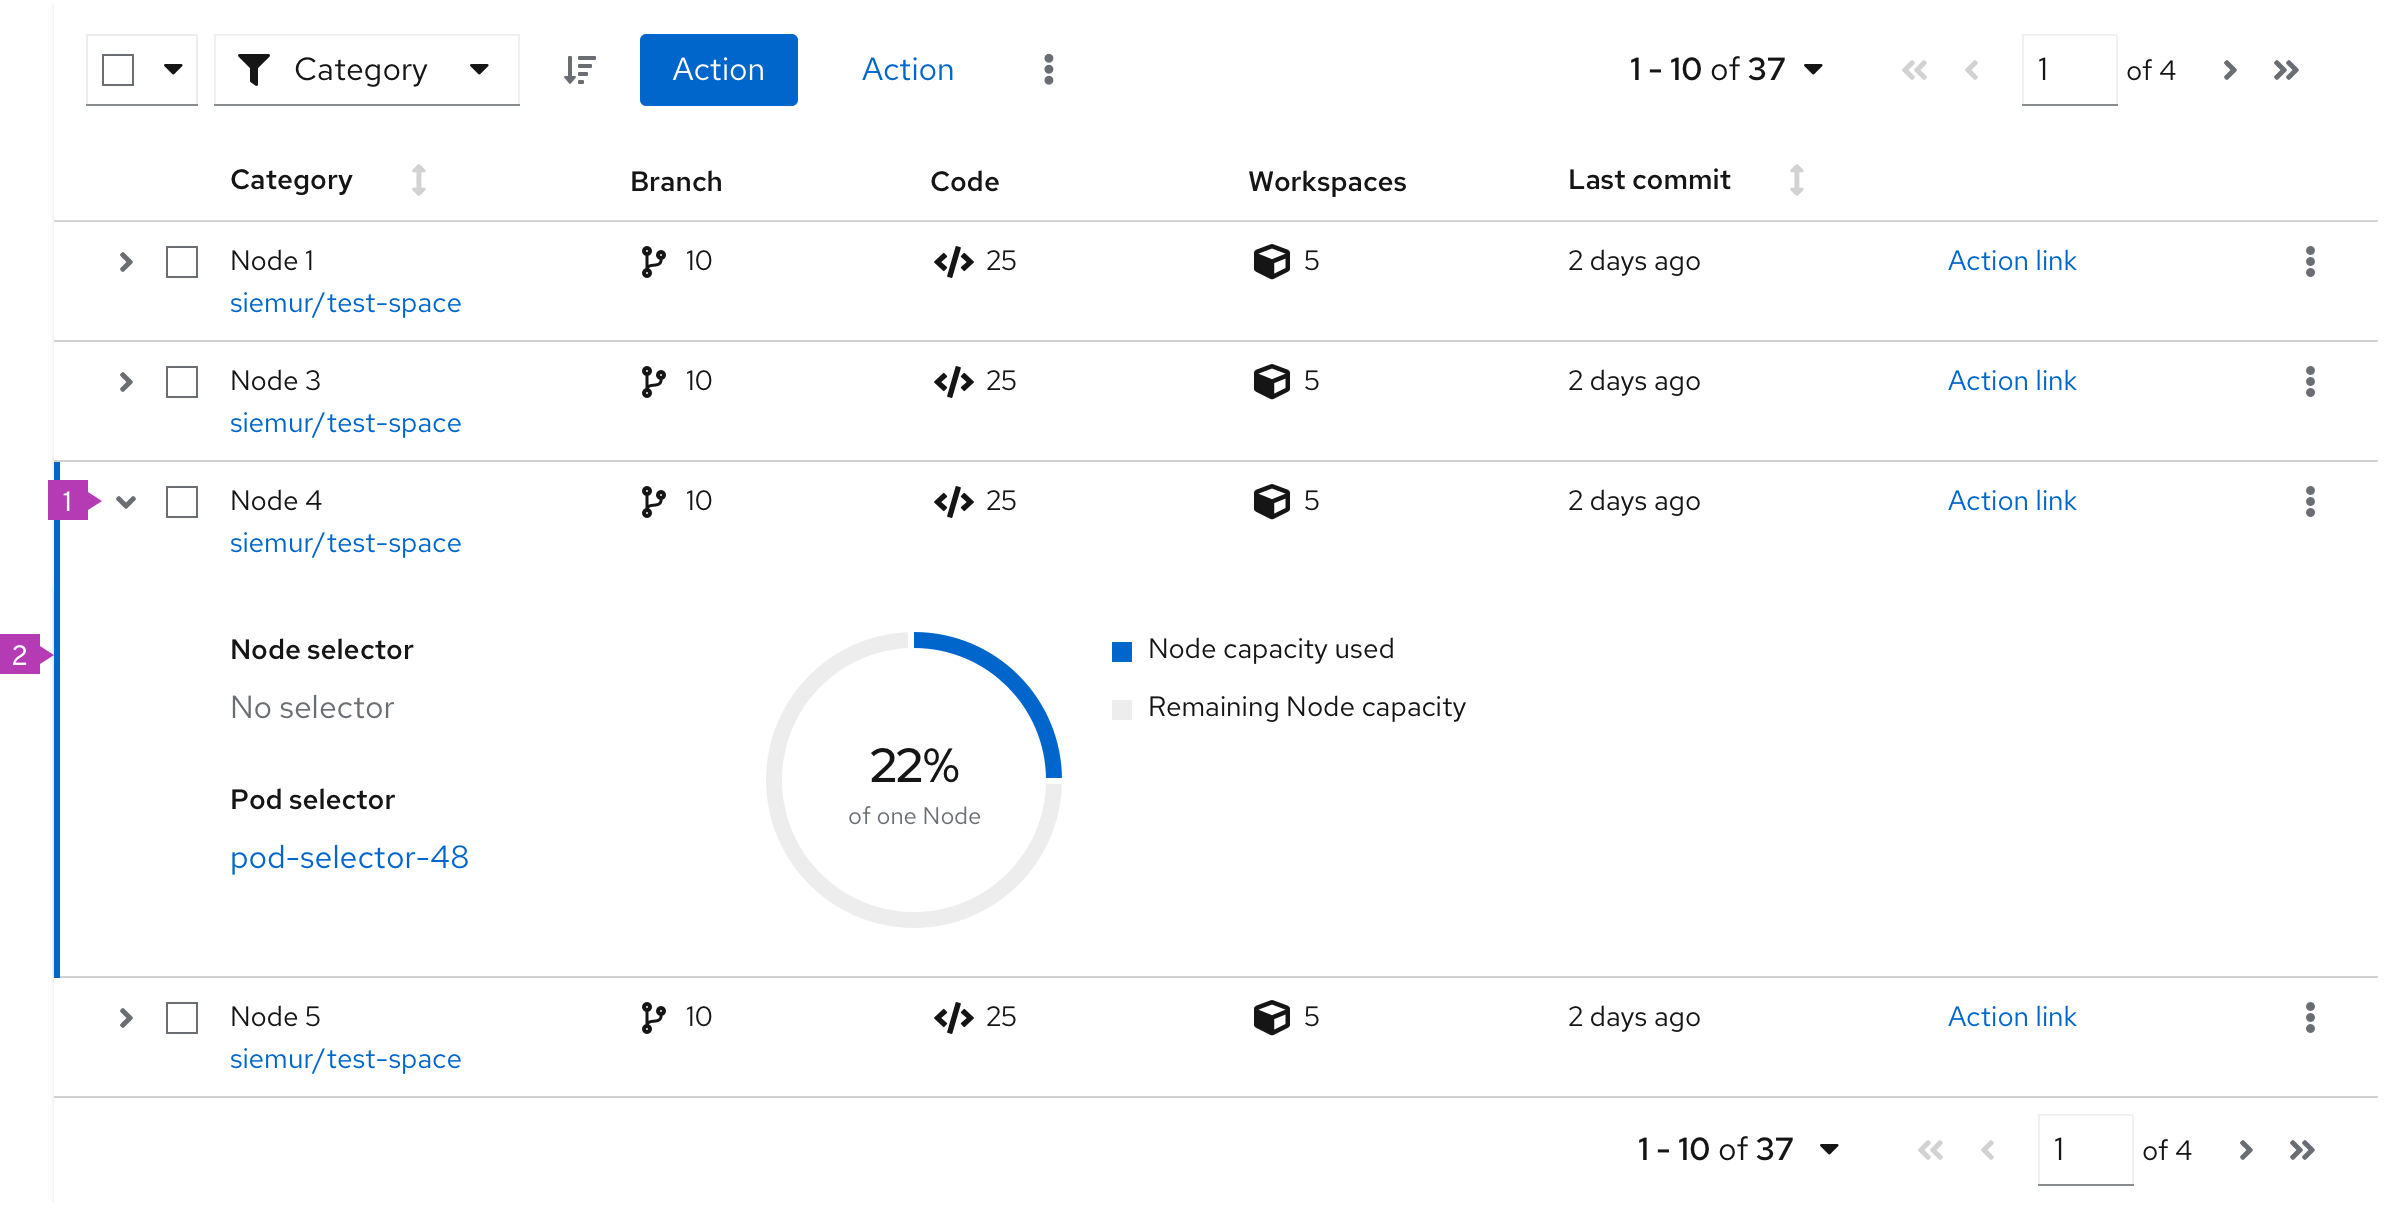
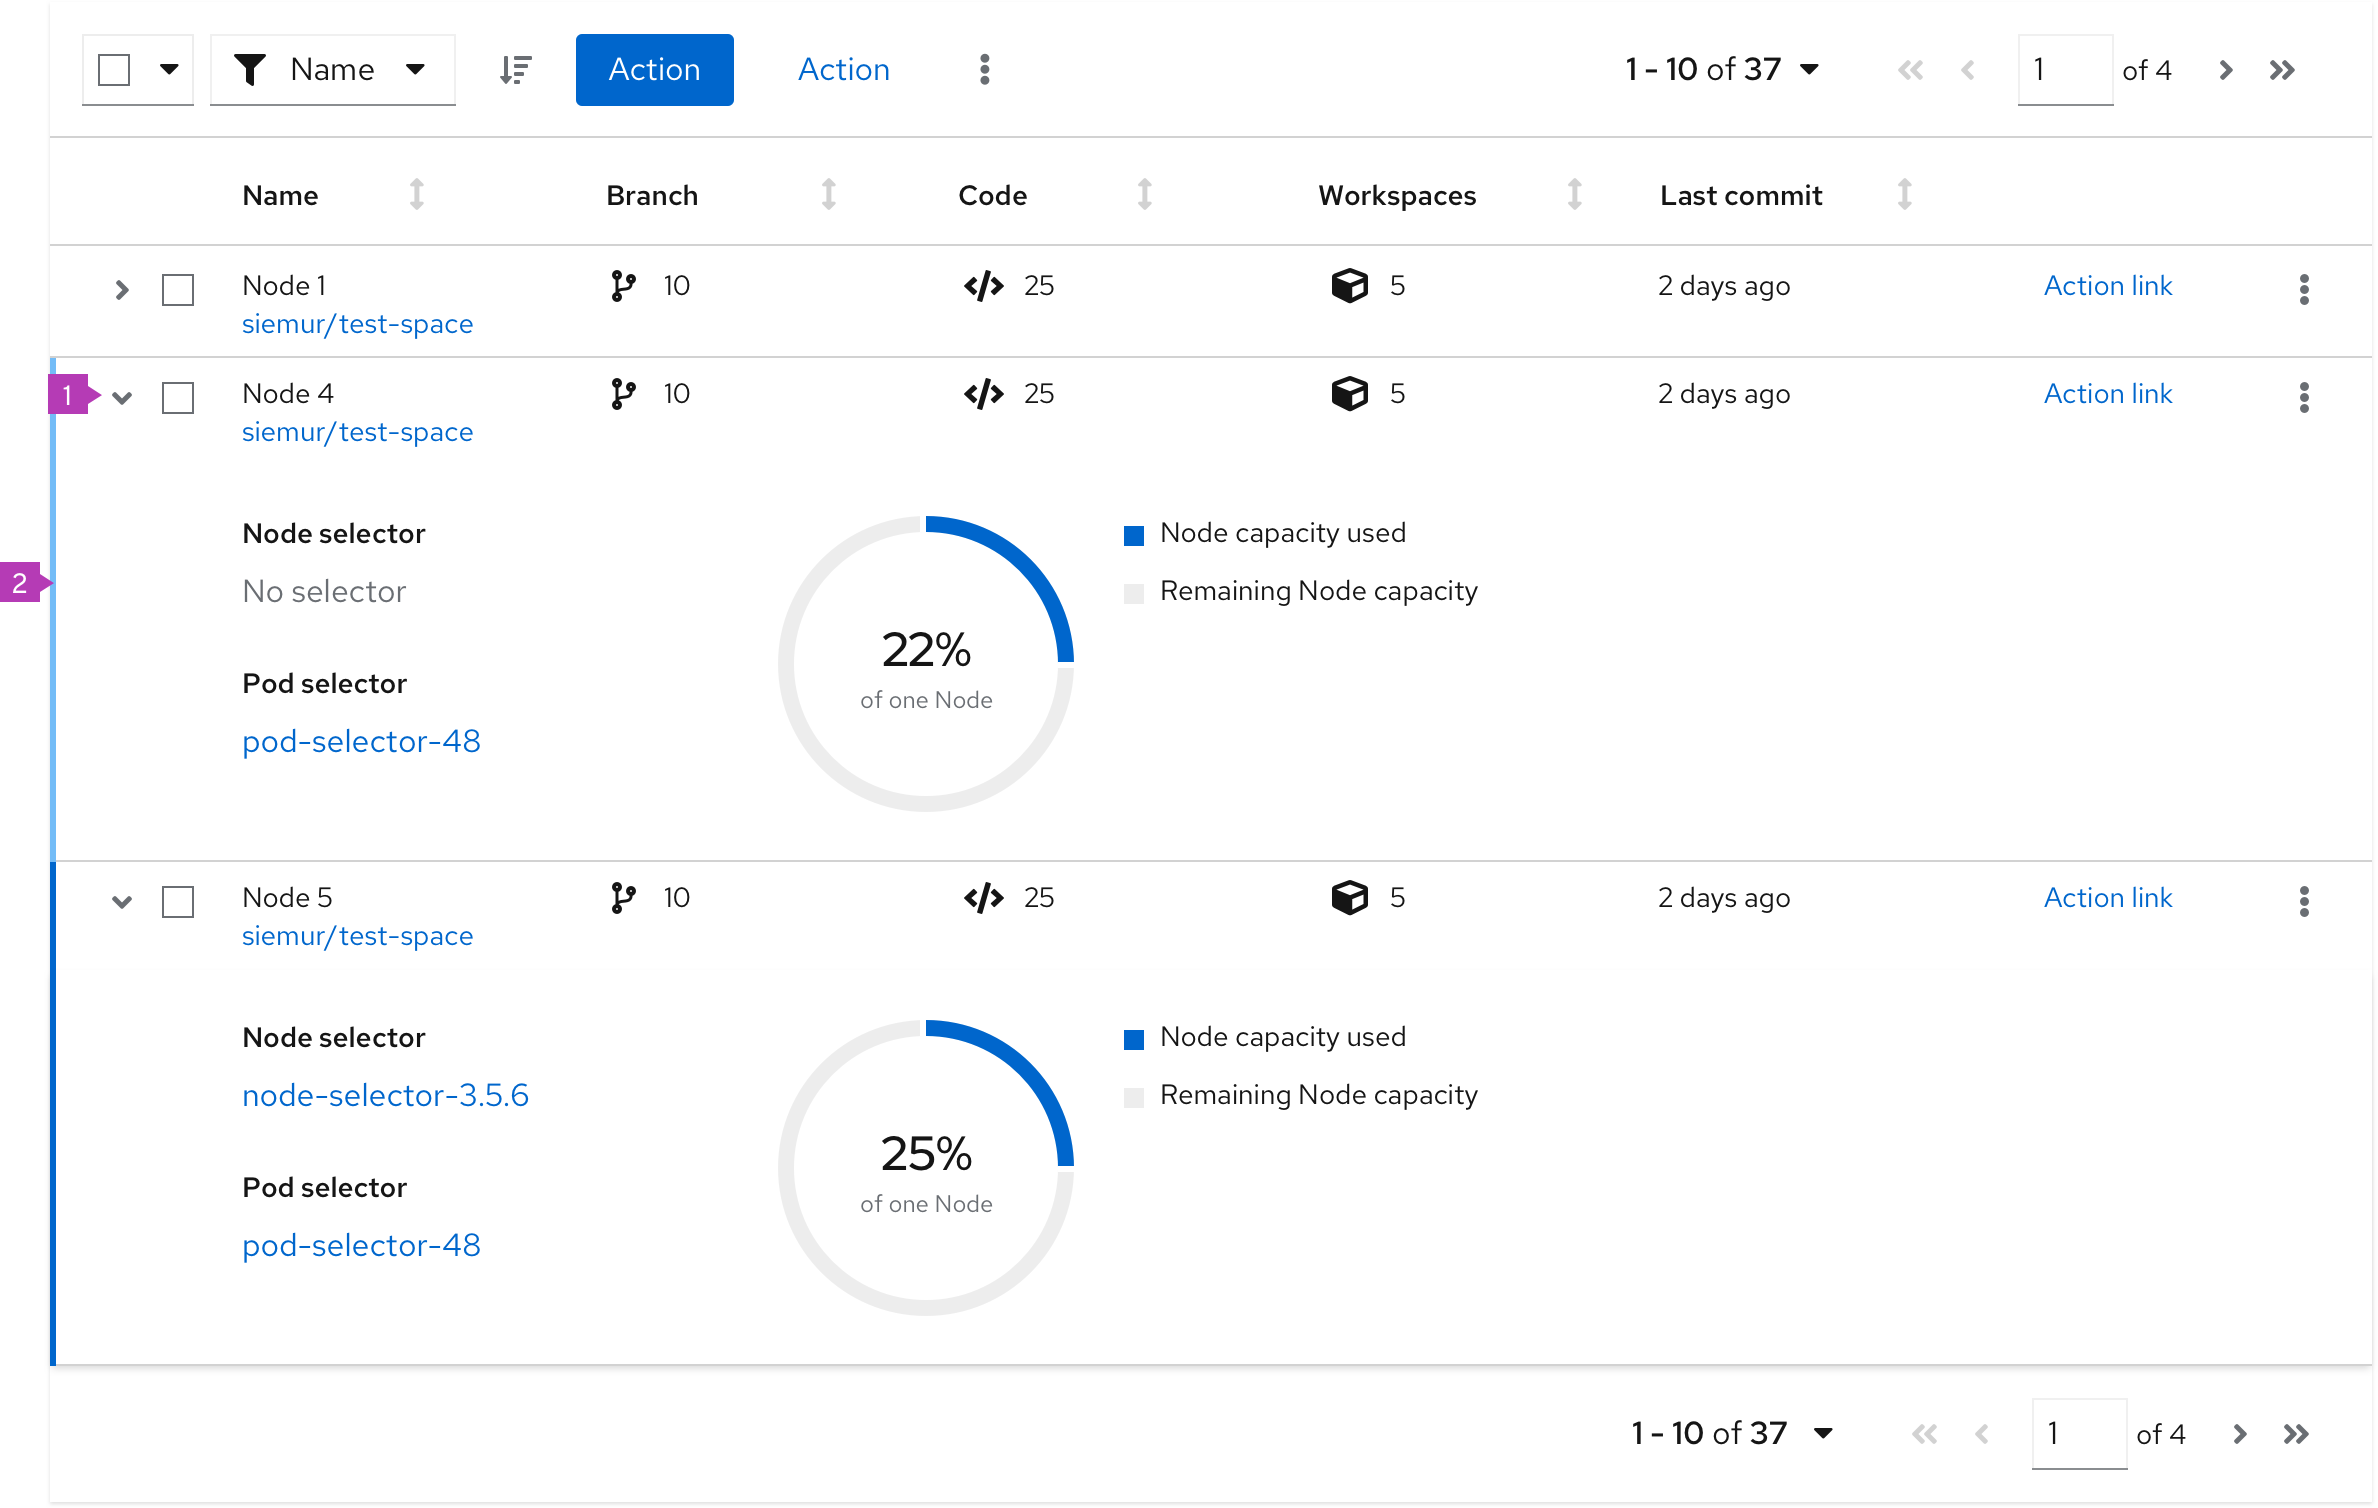
Changed blue line and add coloring section

diff --git a/packages/v4/src/content/design-guidelines/usage-and-behavior/lists-and-tables/lists-and-tables.md b/packages/v4/src/content/design-guidelines/usage-and-behavior/lists-and-tables/lists-and-tables.md
@@ -142,7 +142,7 @@ Every table can be extended with these functionalities:
 
 ### Expandable table
 
-<img src="./img/expandable-data-table.png"  alt="Expandable table"  width="1189"/> 
+<img src="./img/expandable-data-table.png"  alt="Expandable table"  width="1186"/> 
 
 1. **Expansion:** Expands the row
 2. **Expansion panel:** Contains details associated with a row
@@ -151,6 +151,13 @@ Every table can be extended with these functionalities:
 Use expandable table rows when: 
 * You have more information than will comfortably fit inside a row. 
 * You want to provide a way for advanced users to access information that is not applicable to all users.
+
+Use a dark blue line for expanded rows when: 
+* You expanded a single row. 
+* You expanded more rows, and you selected one of them. It means that this row is active.
+
+Use a light blue line for expanded rows when: 
+* You have a selectable table with selectable rows, and you expanded more rows, but you didn't select them to be active.
 
 ### Compound-expandable table
 
